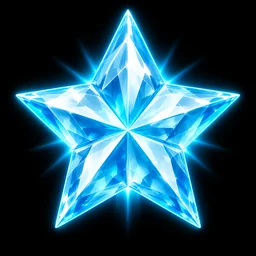
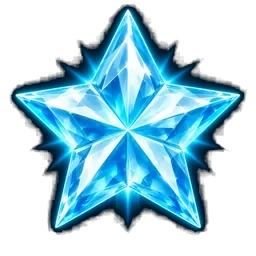
Demo: recadrage complet (panneau du bonus, bouton TOURNER, noms des segments, etoile sans fond noir, lisibilite)
Claude-Session: https://claude.ai/code/session_0176xjBfP9TdkYXfNsRHRQh2

diff --git a/demo/index.html b/demo/index.html
@@ -268,6 +268,35 @@
   .ctier{letter-spacing:.06em;font-weight:900}
   .cap{font-weight:700}
   .cap em{font-family:'Cinzel','Times New Roman',serif;font-weight:900}
+  /* ===== Recadrage ===== */
+  .hidden{display:none!important}
+  .wrap{padding:10px 14px 8px;gap:8px}
+  .hud{margin-bottom:2px}
+  .stage{padding:12px 10px 10px;gap:6px;overflow:hidden}
+  .dock{margin:0 -4px 8px}
+  .cap{flex:none;min-height:40px}
+  .deck{margin-top:6px;padding:0 2px;align-items:center}
+  .spinbtn{width:94px;height:94px;font-size:11.5px;letter-spacing:.04em;margin:-6px 0;line-height:1}
+  .buybtn{height:70px;padding:8px 22px 6px;gap:0}
+  .buybtn small{font-size:8.5px;letter-spacing:.06em;line-height:1.15;text-align:center}
+  .buybtn b{font-size:22px;line-height:1}
+  .stepper{height:56px}
+  .tools{margin-top:2px}
+  /* ===== Recadrage du bonus et lisibilité ===== */
+  #skywrap{width:256px}
+  .pips{margin:0}
+  .hud b{font-size:11px}
+  .stepper .betval small{font-size:10.5px}
+  .buybtn small{font-size:10px}
+  .tools button{font-size:12px}
+  @media (max-width:380px){.spinbtn{font-size:11px}.hud b{font-size:12px}}
+  .hud b{font-size:10px;white-space:nowrap;letter-spacing:.08em}
+  .bhead .bname{font-size:13px;line-height:1.1}
+  .bhead .bname small{font-family:'Outfit',system-ui,sans-serif;text-transform:none;letter-spacing:0;font-weight:600;font-size:10.5px}
+  .bhead .btot b{font-size:9px;white-space:nowrap}
+  .bhead{padding:6px 10px}
+  .stage.bonus{gap:4px;padding-top:10px}
+  .stage.bonus .dock{margin-bottom:2px}
 </style>
 </head>
 <body>
@@ -281,9 +310,9 @@
   </div>
   <div class="stage" id="stage">
     <div class="dock hidden" id="dock">
-      <svg id="dockSvg" viewBox="-112 -114 224 104" aria-label="Roues des bonus">
+      <svg id="dockSvg" viewBox="-112 -124 224 114" aria-label="Roues des bonus">
         <defs><linearGradient id="rim" x1="0" y1="0" x2="1" y2="1"><stop offset="0" stop-color="#fff3c4"/><stop offset=".5" stop-color="#f3c969"/><stop offset="1" stop-color="#8a5a14"/></linearGradient>
-        <clipPath id="halfclip"><rect x="-112" y="-114" width="224" height="104"/></clipPath></defs>
+        <clipPath id="halfclip"><rect x="-112" y="-124" width="224" height="114"/></clipPath></defs>
         <g clip-path="url(#halfclip)">
           <g id="ring2" class="ring idle"></g>
           <g id="ring1" class="ring idle"></g>
@@ -463,7 +492,7 @@ let curKind='constellation', curPlus=false, curTier=1;
 // Roue des Phases de Lune : elle décide de la richesse du bonus (niveau 1, 2 ou 3), indépendamment de la roue des Bonus.
 const TIER={1:{col:'#2b3a5a',name:'Croissant',icon:'<path d="M31 6 A18 18 0 1 0 31 42 A14 14 0 1 1 31 6Z" fill="#dfe6ff"/>'},
   2:{col:'#5a4a2b',name:'Quartier de lune',icon:'<path d="M24 6 A18 18 0 0 0 24 42 Z" fill="#fff3c4"/><circle cx="24" cy="24" r="18" fill="none" stroke="#fff3c4" stroke-width="1.6" opacity=".7"/>'},
-  3:{col:'#b8862b',name:'Pleine lune',icon:'<circle cx="24" cy="24" r="22" fill="none" stroke="#ffe39a" stroke-width="2" opacity=".7"/><circle cx="24" cy="24" r="17" fill="#fff6cf"/><circle cx="18" cy="19" r="3" fill="#e8d98f"/><circle cx="29" cy="28" r="4" fill="#e8d98f"/>'}};
+  3:{col:'#8a6420',name:'Pleine lune',icon:'<circle cx="24" cy="24" r="22" fill="none" stroke="#ffe39a" stroke-width="2" opacity=".7"/><circle cx="24" cy="24" r="17" fill="#fff6cf"/><circle cx="18" cy="19" r="3" fill="#e8d98f"/><circle cx="29" cy="28" r="4" fill="#e8d98f"/>'}};
 // --- Interface ---
 function cap(html,pop=true){const c=$('cap'); c.innerHTML='<span>'+html+'</span>'; if(pop){c.classList.remove('pop'); void c.offsetWidth; c.classList.add('pop')}}
 const banner=t=>cap(t);
@@ -546,7 +575,7 @@ const SHORT={constellation:'Constell.',comet:'Comètes',nova:'Nova',cross:'Croix
 function drawRing(id,segs,r0,r1){let a=0; const arcs=segs.map(([k,p])=>{const s=a;a+=p*360;return {k,s,e:a}}); const rm=(r0+r1)/2, band=r1-r0;
   $(id).innerHTML=arcs.map(x=>{const isT=x.k.startsWith('tier'),mid=(x.s+x.e)/2,fill=isT?TIER[+x.k[4]].col:RING_COL[x.k],icon=isT?TIER[+x.k[4]].icon:KINDS[x.k].icon;
     // image + nom : l'image en haut du segment, le nom en dessous (même sens que la roue)
-    const arc=(x.e-x.s)*Math.PI/180*rm, sz=Math.min(band*.58,arc*.78), sc=sz/48, ty=-(rm+band*.12), fs=Math.max(4.6,Math.min(6.6,arc*.30));
+    const arc=(x.e-x.s)*Math.PI/180*rm, sz=Math.min(band*.58,arc*.78), sc=sz/48, ty=-(rm+band*.12), fs=Math.max(4.2,Math.min(6.6,arc*.70/(Math.max(4,SHORT[x.k].length)*.6)));
     return `<g class="seg" data-k="${x.k}"><path d="${ringPath(x.s,x.e,r0,r1)}" fill="${fill}" stroke="#0a0e1f" stroke-width="1.5"/><g transform="rotate(${mid.toFixed(1)})"><g transform="translate(0,${ty.toFixed(1)}) scale(${sc.toFixed(3)}) translate(-24,-24)"><g style="filter:drop-shadow(0 0 3px #000c)">${icon}</g></g><text x="0" y="${(-rm+band*.36).toFixed(1)}" text-anchor="middle" font-size="${fs.toFixed(1)}" fill="#fff" style="font-weight:800;paint-order:stroke;stroke:#000b;stroke-width:1.4px">${SHORT[x.k]}</text></g></g>`}).join('');
   return arcs}
 let ringArcs={1:[],2:[]}, ringAngle={1:0,2:0}, driftOn=false;

diff --git a/docs/ART_PROVENANCE.md b/docs/ART_PROVENANCE.md
@@ -39,3 +39,35 @@ Modèle `gpt_image_2_5`, fond noir converti en transparence. Même garde-fous qu
 
 ## Ajout (2026-10-12) : icônes de bonus (non intégrées)
 Quatre icônes générées avec `gpt_image_2_5` (Nova, Croix de Lune, Éclipse, Galaxie), fond noir, sans référence ni nom de marque. Jobs : 6dd61560-36f2-400a-9e48-39bfe552119b, e4f46f0c-dac1-4f6f-96cb-c4c029fb8e0b, b2e84b8a-5c59-40dc-8508-6a1bcb799d04, 05820d0e-5481-416b-ab73-397b15a3c633. Elles ne sont pas encore dans `demo/art/` ; les icônes affichées dans la démo sont dessinées en code. Les mêmes réserves juridiques qu'au-dessus s'appliquent.
+
+## Ajout (2026-10-13) : refonte du menu et visuels supplémentaires
+Visuels générés avec Higgsfield à la demande de l'utilisateur, sans image de référence ni nom de marque. Les identifiants de job servent de preuve de création. Mêmes réserves que plus haut : conditions d'utilisation de Higgsfield non lues, statut de droit d'auteur à faire valider, aucune affirmation de conformité.
+
+Intégrés dans la démo (`demo/art/`) :
+| Visuel | Rôle | Job Higgsfield |
+|---|---|---|
+| Tuile du haut | HUD (solde, mise, gain) | 9cbe92dc-9283-4cb5-82ce-66ec56e38e9f |
+| Panneau du sélecteur de mise | fond du sélecteur | 1422f417-e6ad-4fd8-b634-c546ad2830c5 |
+| Bouton rond doré | bouton TOURNER | 5134e7b3-27ee-462c-8bba-f673e7c5e611 |
+| Faisceau de lumière | liaison entre les étoiles | 4a936a61-cad4-4893-959e-6d72644b77a9 |
+| Plaque bleue | bouton d'achat | fa8fbab4-ab48-454c-8698-badc10d0536d |
+| Icône Nova | segment et bonus Nova | 6dd61560-36f2-400a-9e48-39bfe552119b |
+| Icône Croix de Lune | segment et bonus Croix de Lune | e4f46f0c-dac1-4f6f-96cb-c4c029fb8e0b |
+| Icône Orbites | segment et bonus Orbites | 8d7b403d-5ae8-4a46-8c2b-b3b24a0a5147 |
+
+Générés, non intégrés (pas dans `demo/art/`) :
+| Visuel | Job Higgsfield |
+|---|---|
+| Fond de roue | 39f57fda-6123-406c-a298-6eb4af2a9b16 |
+| Bandeau de victoire | 19c73f8a-9ad1-46fc-91f6-6a1ab6ae74f2 |
+| Cadre de roue | eba61fff-c4d6-43af-be26-c8ddcb2ad9db |
+| Icône Galaxie | 05820d0e-5481-416b-ab73-397b15a3c633 |
+| Icône Éclipse | b2e84b8a-5c59-40dc-8508-6a1bcb799d04 |
+| Icône Comètes | 5dcaf04c-f329-4886-925b-c93be2fe06b4 |
+| Icône Constellations | b7a43992-8281-436c-8af7-7fe4490c9a10 |
+| Icône Pluie | 71522f8f-2144-4974-b64a-ebde18da97d6 |
+| Lune : croissant | 6f1648ba-b5d8-4a3e-8602-67c90ffb3fcb |
+| Lune : quartier | 7bc77316-0abe-4955-bc53-7ac3e8a0f494 |
+| Lune : pleine | ce0c56d6-fdb6-4c78-aad9-3eed43f9b393 |
+
+Notes : les icônes Nova, Croix de Lune et Orbites sont désormais intégrées (les mentions « non intégrées » des ajouts précédents sont à lire en conséquence) ; la plaque bleue fa8fbab4 figurait déjà dans la liste des visuels de menu non intégrés de l'ajout du 2026-10-12. Les polices Cinzel et Outfit sont chargées depuis Google Fonts : leurs licences sont à vérifier avant toute publication.

diff --git a/docs/ITERATIONS.md b/docs/ITERATIONS.md
@@ -136,3 +136,12 @@
 - Démo : menu refait (bouton TOURNER, mise + et -), suspense (tension avant le 3e Lunette, roues qui frôlent la case voisine puis reviennent), célébrations des gros gains (paliers dès 20x), le jeu tient sur une seule page sans défilement.
 - Higgsfield : 4 icônes de bonus générées (Nova, Croix, Éclipse, Galaxie : jobs 6dd61560-36f2-400a-9e48-39bfe552119b, e4f46f0c-dac1-4f6f-96cb-c4c029fb8e0b, b2e84b8a-5c59-40dc-8508-6a1bcb799d04, 05820d0e-5481-416b-ab73-397b15a3c633), non intégrées : l'environnement refuse le téléchargement depuis cloudfront.net.
 - Points bloqués : accès réseau aux fichiers Higgsfield ; avis d'un conseil en brevets sur la structure à deux roues (aucune affirmation de conformité).
+
+## Itération 20 (2026-10-13)
+- **Modes turbo et turbo ×2** (démo) : le bouton Vitesse alterne normale / turbo / turbo ×2. En turbo, TOURNER devient AUTO ; un clic lance des tours en boucle et le bouton devient ARRÊT. La boucle s'arrête au déclenchement d'un bonus, quand le solde est inférieur à la mise, ou au clic sur ARRÊT. Le bonus se joue à vitesse normale ; le mode choisi est rétabli à la fin du bonus.
+- **Roues** : chaque segment affiche son nom (libellé court) en plus de son image.
+- **Menu refait** avec des visuels générés avec Higgsfield : tuile du haut, panneau du sélecteur de mise, bouton rond doré, faisceau de lumière entre les étoiles, plaque bleue du bouton d'achat, icônes Nova, Croix de Lune et Orbites (les autres icônes de bonus restent dessinées en code). Polices Cinzel (titres, boutons) et Outfit (chiffres) chargées via Google Fonts. Jobs et réserves juridiques : `docs/ART_PROVENANCE.md`.
+- **Une seule page à échelle fixe** : la scène mesure 430 x 860 et s'adapte à l'écran par mise à l'échelle, sans défilement.
+- Visuels générés mais non intégrés : fond de roue, bandeau de victoire, cadre de roue, icônes Galaxie, Éclipse, Comètes, Constellations, Pluie, trois lunes (croissant, quartier, pleine).
+- Aucun chiffre de maths nouveau ; aucune mesure ajoutée dans cette itération.
+- Points ouverts : conditions Higgsfield non lues, droit d'auteur des images à valider, avis d'un conseil en brevets (aucune affirmation de conformité).
